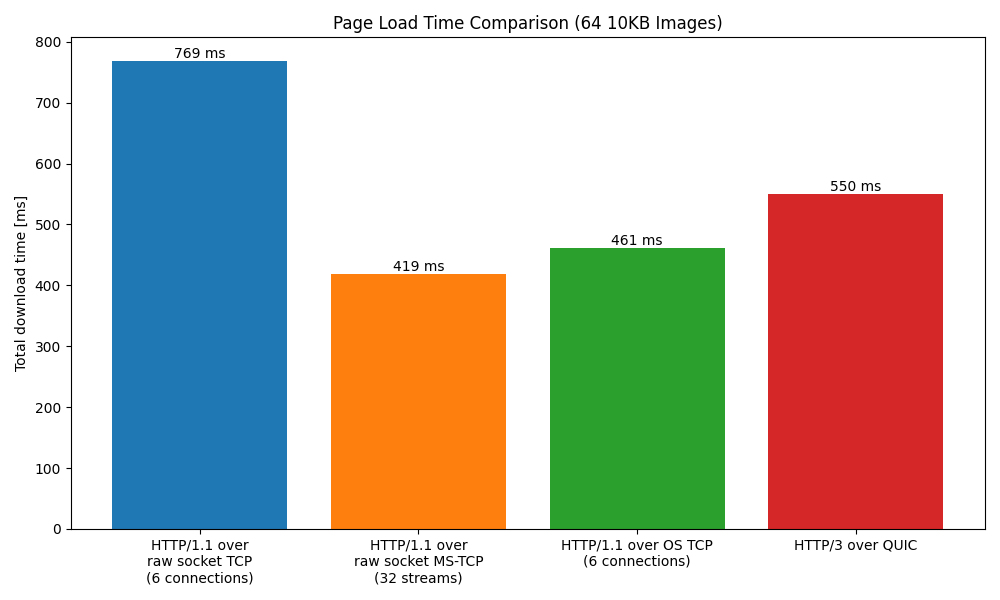
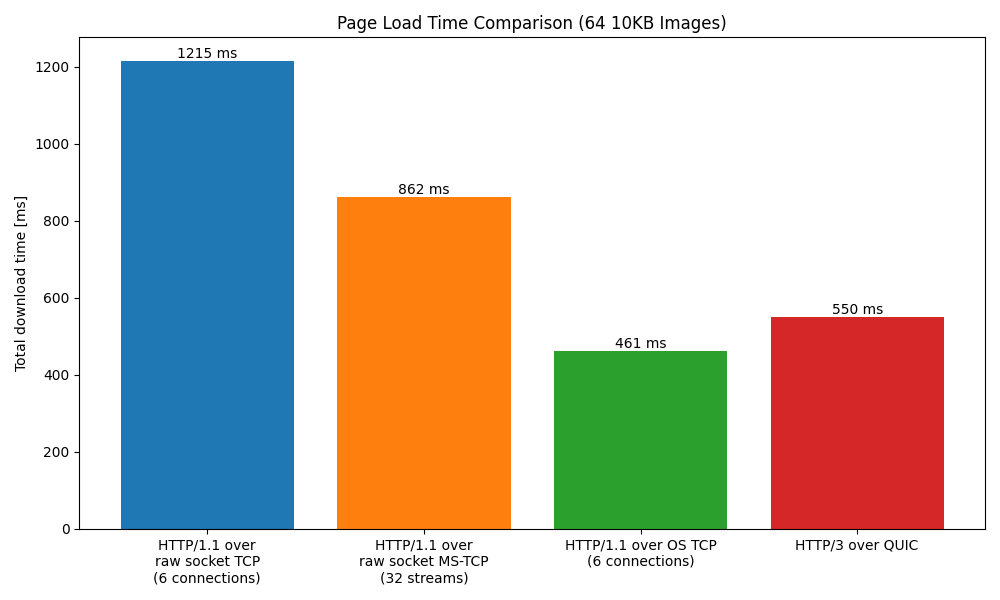
quic test fixed ms timing

diff --git a/15.c b/15.c
@@ -70,7 +70,7 @@ int payload_size_arr[] = {200};
 #if CL_MAIN == CL_MAIN_AGGREGATE
 #define NUM_CLIENTS_MAX 64
 #define NUM_CLIENT_REQUESTS_MAX 1000
-int num_client_requests_test = 1024;
+int num_client_requests_test = 64;
 
 //int num_clients_arr[] = {6, 12/*, 18*/};
 //int num_clients_arr[] = {6, 12, 18, 24, 30};
@@ -85,11 +85,11 @@ int num_client_requests_test = 1024;
 //int payload_size_arr[] = {1000, 2000, 5000, 10000, 20000, 50000, 100000/*, 150000, 200000, 250000, 300000, 350000, 400000, 450000, 500000, 550000, 600000*//*, 700000, 800000*/};
 
 
-#define MS_ENABLED false
+#define MS_ENABLED true
 // TCP: 1, 6
 // MS: 1, 6, 32
-int num_clients_arr[] = {6}; 
-int payload_size_arr[] = {500};
+int num_clients_arr[] = {32}; 
+int payload_size_arr[] = {10000};
 
 #undef RESP_PAYLOAD_BYTES
 #define RESP_PAYLOAD_BYTES 100000 // This is the maximum
@@ -4704,6 +4704,8 @@ void main_client_app(){
 	addr.sin_port = htons(19500);
 	addr.sin_addr.s_addr = inet_addr(SERVER_IP_STR);
 
+	int64_t meas_start = get_timestamp_ms();
+
 	s = mysocket(AF_INET,SOCK_STREAM,0);
 	if(s == -1){
 		myperror("mysocket");
@@ -4716,7 +4718,7 @@ void main_client_app(){
 		exit(EXIT_FAILURE);
 	}
 	char* data = safe_malloc(RESP_BUF_SIZE); // both req and resp
-	sprintf(data, "GET /26677 HTTP/1.1\r\nX-Client-ID: %d\r\nX-Req-Num: %d\r\n\r\n", 0, -1);
+	sprintf(data, "GET /2685 HTTP/1.1\r\nX-Client-ID: %d\r\nX-Req-Num: %d\r\n\r\n", 0, -1);
 	int sent = 0, missing = strlen(data);
 	while(missing > 0){
 		ret = mywrite(s, data+sent, missing);
@@ -4802,7 +4804,7 @@ void main_client_app(){
 	}
 	
 	//DEBUG("Starting the measurement");
-	int64_t meas_start = get_timestamp_ms();
+	
 
 
 

diff --git a/quic_comparison_graph.py b/quic_comparison_graph.py
@@ -6,9 +6,9 @@ plot_titles = ["Page Load Time Comparison (1024 500B Images)", "Page Load Time C
 
 # Sample data array [3 plots][4 columns]
 data = [
-    [5880, 752, 5107, 1069],   # First histogram data
-    [683, 74, 433, 323],  # Second histogram data
-    [769, 419, 461, 550]      # Third histogram data
+    [6835, 1252, 5107, 1069],   # First histogram data
+    [1001, 210, 433, 323],  # Second histogram data
+    [1215, 862, 461, 550]      # Third histogram data
 ]
 
 # Column labels (split into 2 lines)
